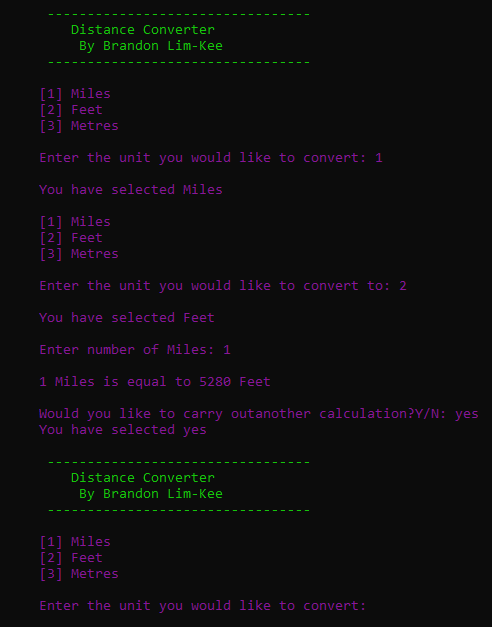
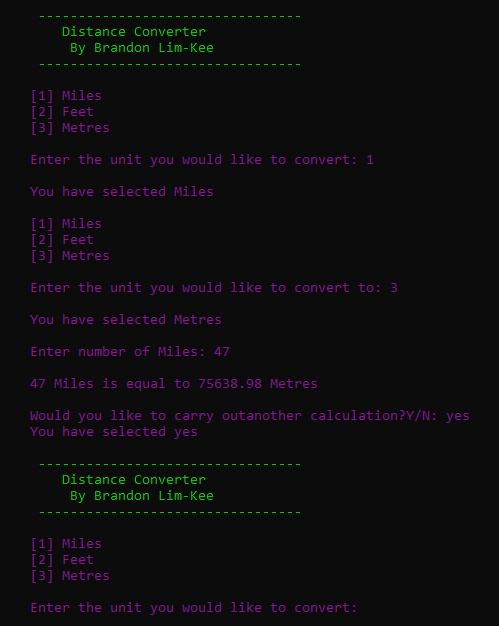
Answer rounds to 2dp

diff --git a/ConsoleAppProject/App01/DistanceConverter.cs b/ConsoleAppProject/App01/DistanceConverter.cs
@@ -57,7 +57,7 @@ namespace ConsoleAppProject.App01
                 
                 FromDistance = ConsoleHelper.InputNumber($"\n\tEnter number of {FromUnit}: ");
                 ToDistance = CalculateDistance();
-                Console.WriteLine($"\n\t{FromDistance} {FromUnit} is equal to {ToDistance} {ToUnit}\n");
+                Console.WriteLine($"\n\t{FromDistance} {FromUnit} is equal to {Math.Round(ToDistance,2)} {ToUnit}\n");
                 repeat = SelectRepeat();
 
             }
